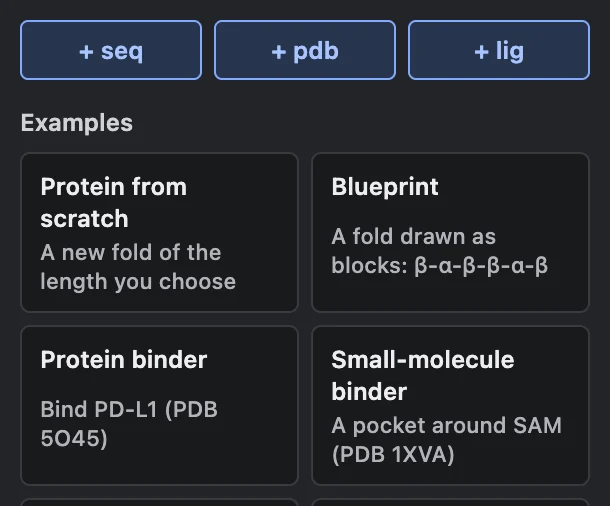
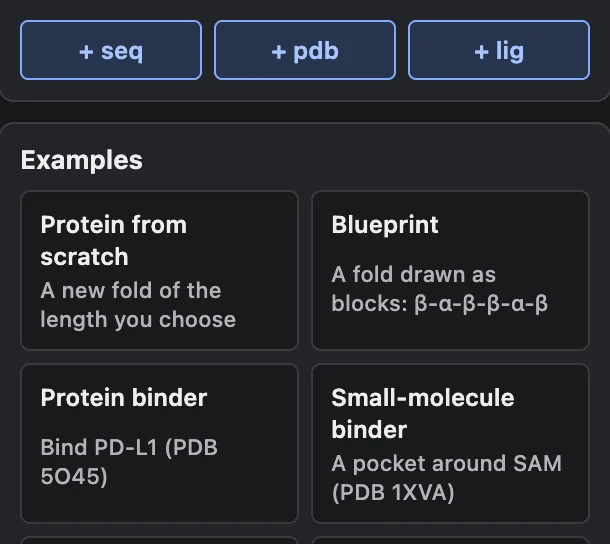
Examples in a box of their own under Input, on the start screen

diff --git a/index.html b/index.html
@@ -10,7 +10,7 @@
     <!-- This site serves the Studio bundle itself; its offline cache would pin stale assets on Pages. -->
     <meta name="atomworks-studio-service-worker" content="off" />
     <script src="https://cdnjs.cloudflare.com/ajax/libs/jszip/3.10.1/jszip.min.js"></script>
-    <link rel="stylesheet" href="./web/styles.css?v=8c1a7a31c6" />
+    <link rel="stylesheet" href="./web/styles.css?v=d1e1bc4a78" />
     <!-- Light or dark before anything draws, so the viewer never flashes the other colour (web/app.js _initTheme keeps it). -->
     <script>
       try {
@@ -93,8 +93,6 @@
                     <button id="rfd4p-start-lig" type="button" class="secondary compact" title="A small molecule by its PDB code (HEM, ATP, ZN…)">+ lig</button>
                 </div>
                 <p id="rfd4p-fetch-status" class="inline-feedback muted" aria-live="polite"></p>
-                <p class="rfd4p-lead rfd4p-lead-sub">Examples</p>
-                <div id="rfd4p-task-grid" class="rfd4p-task-grid"></div>
                 <button id="rfd4p-back" type="button" class="secondary compact" hidden>← Back to the current design</button>
             </div>
 
@@ -172,6 +170,12 @@
                     <button id="download-all-btn" class="secondary compact" type="button" title="Input, every design with its trajectory, every refold, and a summary table">Save all (.zip)</button>
                 </div>
             </div>
+            </div>
+
+            <!-- Examples: a box of their own under Input, on the start screen only. -->
+            <div id="rfd4p-examples" class="rfd4p-examples rfd4p-section">
+                <strong class="rfd4p-section-title">Examples</strong>
+                <div id="rfd4p-task-grid" class="rfd4p-task-grid"></div>
             </div>
 
             <div id="rfd4p-run-settings" class="rfd4p-run-settings rfd4p-section" hidden>

diff --git a/web/page/card.html b/web/page/card.html
@@ -20,8 +20,6 @@
                     <button id="rfd4p-start-lig" type="button" class="secondary compact" title="A small molecule by its PDB code (HEM, ATP, ZN…)">+ lig</button>
                 </div>
                 <p id="rfd4p-fetch-status" class="inline-feedback muted" aria-live="polite"></p>
-                <p class="rfd4p-lead rfd4p-lead-sub">Examples</p>
-                <div id="rfd4p-task-grid" class="rfd4p-task-grid"></div>
                 <button id="rfd4p-back" type="button" class="secondary compact" hidden>← Back to the current design</button>
             </div>
 
@@ -99,6 +97,12 @@
                     <button id="download-all-btn" class="secondary compact" type="button" title="Input, every design with its trajectory, every refold, and a summary table">Save all (.zip)</button>
                 </div>
             </div>
+            </div>
+
+            <!-- Examples: a box of their own under Input, on the start screen only. -->
+            <div id="rfd4p-examples" class="rfd4p-examples rfd4p-section">
+                <strong class="rfd4p-section-title">Examples</strong>
+                <div id="rfd4p-task-grid" class="rfd4p-task-grid"></div>
             </div>
 
             <div id="rfd4p-run-settings" class="rfd4p-run-settings rfd4p-section" hidden>

diff --git a/web/styles.css b/web/styles.css
@@ -1208,3 +1208,4 @@ body.rfd4p-building .rfd4p-piece-pop { visibility: hidden; }
 #rfd4p-studio-card .rfd4p-source-row:focus-within .rfd4p-source-x { opacity: 1; }
 @media (hover: none) { #rfd4p-studio-card .rfd4p-source-x { opacity: 1; } }
 #rfd4p-fetch-status:empty { display: none; }
+#rfd4p-studio-card:not(.rfd4p-starting) #rfd4p-examples { display: none; }

diff --git a/AGENTS.md b/AGENTS.md
@@ -25,7 +25,7 @@ Operational guide for coding agents working in `rfd4p` (WebGPU implementation of
    - AtomWorks Studio is **not vendored**. `studio.json` pins the release; `npm run build:studio` downloads that bundle, verifies its sha256, copies it into `assets/` and composes `index.html` from Studio's own page plus the two fragments this repo owns (`web/page/head.html`, `web/page/card.html`). Never hand-edit `assets/` or `index.html` — both are build output. Live frames, overlays, sessions, edits, the selection, chain colours and live mode go through Studio's documented embedding API, `window.atomworksStudio`. To try an unreleased Studio: `npm run build:studio -- --from <path-to-bundle>`. **Right now the site runs an unreleased Studio**: `studio.json` `override` names the commit (sokrypton/atomworks-studio `live-frame-cartoon`: cartoon overlays, RosettaCommons/atomworks-studio#29, live frames drawn as cartoon plus ligands, `setHighlight`, which the panel uses to colour hotspots in the target's own cartoon, Show/Hide sequence in the viewer toolbar with no sequence-dock heading, `setSelection`, and residue picking by default with a clicked residue shown on its own: Mol*'s focus without its 5 Å surroundings, interactions or camera jump, and following the selection, so deselecting leaves no sticks behind (whole residues selected are only outlined on the cartoon; atoms picked show their residues in sticks, c17a919), and `closeDocument`, which Clear uses to empty the viewer and the sequence without a reload or a confirmation, keeping the session for Back, and `setHighlight` with a `transparency`, which fades residues instead of colouring them, and `centerOn`, which pans the view to atoms), and `build:studio` refuses a plain release rebuild until `override` is removed after a release contains it.
    - Studio's status bar (bottom stripe: its loader's notes and its own Guide link) shows only with the advanced editor; the card has the status line and the Guide button, and Studio's errors keep their banner.
    - Guide: `help/index.html` is this site's guide (start, the card, pieces, picking, chains, colours, running, Designs, examples, words), a page of its own and, through `web/guide-dialog.js`, a popup over the designer (the card's Guide button; the footer's Guide link, shown with the advanced editor); Studio's own guide stays at `guide/`, linked from it. Its screenshots (`help/img/*.webp`) come from `node tools/guide-shots.mjs [scene]` (headless Chrome over its DevTools protocol, each scene set up through the page; `designs` runs the model and an OpenBind-0 refold). Change the guide, and retake the shots, when the interface changes.
-   - Designs (`web/app.js` `_renderDesigns`): every design of the runs on the current input is a row of one table (one list: Input, then the designs, each named by its seed, `_designName`, "163509 (2)" when a seed comes twice; Generate again with the input unchanged (same session, same revision) and the new designs join it, numbered on; after an edit, or from another input, the next Generate starts it over; the card is in three bordered sections, the design, Run and Designs, the Refold box tinted inside Designs), each with ⟳ (refold it) and ⤓ (its CIF); clicking a row shows it. While a run goes, the Generate button is its progress (Stop · design k of n · step s/60, filling up) and the status line under it is for what is not progress. The Refold box (below the tables) holds model, seed, recycles (3, LocalFold's own default; before LocalFold e002fec4 refoldDesign passed none, so refolds ran with 0) and diffusion steps (25). Refold all (or Stop, which is also the refolds' progress as Generate is a run's: "Stop · seed 163509 (2 of 3) · 40%" filling up, cut with an ellipsis, the parameters' download filling it too; only a failure gets a line under it, `_syncRefoldUi`) refolds every design not yet refolded with exactly those settings (model, seed, recycles, steps; a design that was is not folded again, its matching refold is shown, `_showRefold`, and ⟳ on a row does the same, so going back to earlier settings brings their numbers back) (the refold's own seed, 0 by default; another seed samples the fold again, each refold keeping its seed for the zip), one after another, rows saying queued / refolding… and filling in: RMSD, pLDDT, and for an interface ipTM and min iPAE (`refoldMetrics`: the min iPAE from the refold's PAE, polymer tokens first in file order as LocalFold reads them, `polymerChains`; the RMSD of a binder or antibody is upstream's target-aligned one, from the refold's per-residue `deviations`, which LocalFold measures after fitting on every other chain). Whether a design meets the model's own pass criteria (`PASS_CRITERIA`, from RFD4-Proteina `configs/metrics/pass_criteria`: monomer, binder, antibody; motif, enzyme and small-molecule jobs get numbers but no verdict, as they also need motif and ligand RMSDs not computed here) is only in summary.csv's `passes` (the table's ✓, greyed failing rows and pass-first ranking were taken out at the owner's call); rows stay in the order made until a column head is clicked. The start screen, the design box and the Designs box are one box (`#rfd4p-job`) under two tabs from the start, Input (the start screen, then the design being edited) and Outputs (greyed out until there are designs; the designs table, Refold, Save all; opening it shows the design last looked at); the tab open follows the structure shown (`data-tab`). Run sits below it: Thinking, Designs (how many) beside Generate, then More settings under it (Seed first, then partial diffusion, K, early stop); a new Generate selects its first design and a finished refold the design it refolded (`_selectDesign`). Save all (.zip) carries every run, with the same numbers in summary.csv (`web/results-zip.js`).
+   - Designs (`web/app.js` `_renderDesigns`): every design of the runs on the current input is a row of one table (one list: Input, then the designs, each named by its seed, `_designName`, "163509 (2)" when a seed comes twice; Generate again with the input unchanged (same session, same revision) and the new designs join it, numbered on; after an edit, or from another input, the next Generate starts it over; the card is in three bordered sections, the design, Run and Designs, the Refold box tinted inside Designs), each with ⟳ (refold it) and ⤓ (its CIF); clicking a row shows it. While a run goes, the Generate button is its progress (Stop · design k of n · step s/60, filling up) and the status line under it is for what is not progress. The Refold box (below the tables) holds model, seed, recycles (3, LocalFold's own default; before LocalFold e002fec4 refoldDesign passed none, so refolds ran with 0) and diffusion steps (25). Refold all (or Stop, which is also the refolds' progress as Generate is a run's: "Stop · seed 163509 (2 of 3) · 40%" filling up, cut with an ellipsis, the parameters' download filling it too; only a failure gets a line under it, `_syncRefoldUi`) refolds every design not yet refolded with exactly those settings (model, seed, recycles, steps; a design that was is not folded again, its matching refold is shown, `_showRefold`, and ⟳ on a row does the same, so going back to earlier settings brings their numbers back) (the refold's own seed, 0 by default; another seed samples the fold again, each refold keeping its seed for the zip), one after another, rows saying queued / refolding… and filling in: RMSD, pLDDT, and for an interface ipTM and min iPAE (`refoldMetrics`: the min iPAE from the refold's PAE, polymer tokens first in file order as LocalFold reads them, `polymerChains`; the RMSD of a binder or antibody is upstream's target-aligned one, from the refold's per-residue `deviations`, which LocalFold measures after fitting on every other chain). Whether a design meets the model's own pass criteria (`PASS_CRITERIA`, from RFD4-Proteina `configs/metrics/pass_criteria`: monomer, binder, antibody; motif, enzyme and small-molecule jobs get numbers but no verdict, as they also need motif and ligand RMSDs not computed here) is only in summary.csv's `passes` (the table's ✓, greyed failing rows and pass-first ranking were taken out at the owner's call); rows stay in the order made until a column head is clicked. The start screen's + seq / + pdb / + lig, the design box and the Designs box are one box (`#rfd4p-job`) under two tabs from the start, Input (the start screen's parts, then the design being edited; the Examples are a box of their own below it, `#rfd4p-examples`, on the start screen only) and Outputs (greyed out until there are designs; the designs table, Refold, Save all; opening it shows the design last looked at); the tab open follows the structure shown (`data-tab`). Run sits below it: Thinking, Designs (how many) beside Generate, then More settings under it (Seed first, then partial diffusion, K, early stop); a new Generate selects its first design and a finished refold the design it refolded (`_selectDesign`). Save all (.zip) carries every run, with the same numbers in summary.csv (`web/results-zip.js`).
    - Refold (`web/refold-view.js`): LocalFold's `refoldDesign` refolds the design's sequence with AlphaFold 3 (the default) or OpenBind-0 (kept chains as templates), and the refold's designed chains are overlaid as a magenta backbone trace on the design (no separate refold view). That code is **vendored, not written here**: `localfold.json` pins a `sokrypton/localfold` commit, and `npm run sync:localfold [<commit>]` copies the import closure of its entries into `vendor/localfold-<commit>/` (the commit in the path is the cache-busting) and rewrites `web/localfold.js`. Never edit `vendor/`; fix LocalFold and re-sync. AlphaFold 3's parameters are Google DeepMind's (non-commercial, prohibited-use policy), so the page asks once per browser before using them and offers OpenBind-0 (Apache 2.0) instead.
    - Cache-busting: `index.html` carries an import map pinning every module under `web/`, `shared/`, `webgpu/`, `cpu/` to `?v=<content hash>` (plus the `app.js` / `styles.css` tags). Run `npm run stamp` after editing any of them (`build:studio` runs it too), or browsers can mix new and cached modules for up to 10 minutes after a deploy.
    - The card's title row (RFD4-Proteina, the backend badge, ☀ / ☾, Guide) is moved into Studio's header at its right end (`_mountCardIntoStudio`, `.rfd4p-head`), so the card starts with the job.
